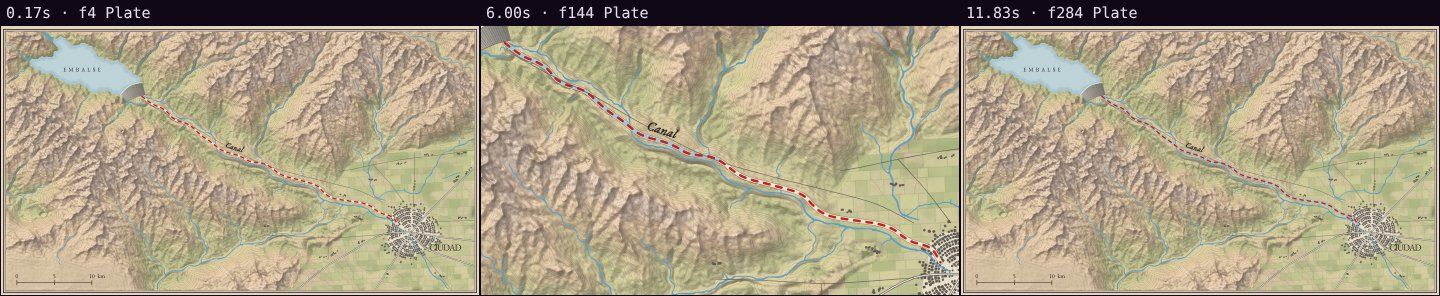
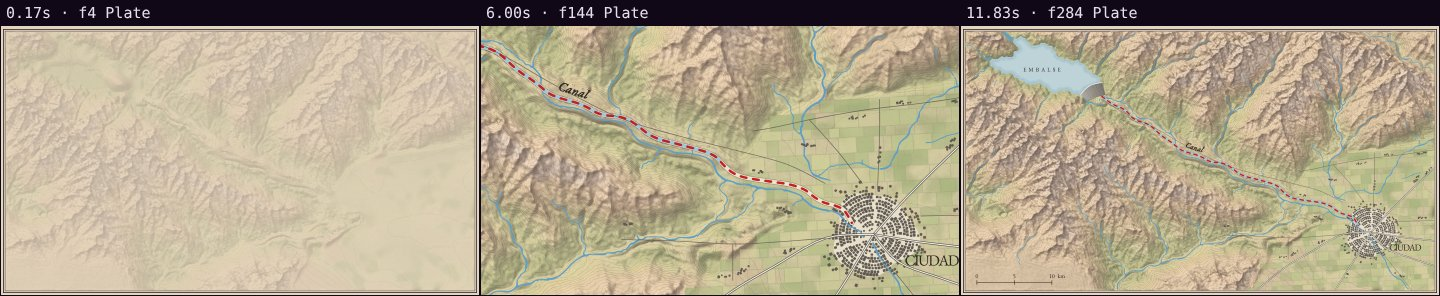
review(atlas-test): round 3 · the plate shows from its first frame
review.mjs flagged the first two frames as flat (only paper: the relief started invisible).
The relief now starts at 35 % and comes up out of the paper from there. review.mjs: no
warnings; the only still stretch is the ending.

Claude-Session: https://claude.ai/code/session_01UB8EocV1wtEFA53C7KnbT7

diff --git a/sandbox/2026-11-17-atlas-test/scene.js b/sandbox/2026-11-17-atlas-test/scene.js
@@ -24,7 +24,7 @@ Motion.scene({
         const { R, vec, hAt, canal } = env.state;
         // 0–1.5 s the plate is printed: the relief comes up out of the paper, then its ink, then
         // its lettering; 1.5–2 s it holds as the reference drew it (the detail gate's instant)
-        const relief = Ease.inOut(Ease.seg(t, 0.0, 0.9)), ink = Ease.inOut(Ease.seg(t, 0.5, 1.2)), letters = Ease.inOut(Ease.seg(t, 1.0, 1.5));
+        const relief = 0.35 + 0.65 * Ease.inOut(Ease.seg(t, 0.0, 0.9)), ink = Ease.inOut(Ease.seg(t, 0.5, 1.2)), letters = Ease.inOut(Ease.seg(t, 1.0, 1.5));
         // the water's front: leaves the dam at 3.0 s, reaches the town at 8.2 s
         const u = Ease.inOut(Ease.seg(t, 3.0, 8.2));
         const front = Atlas.along(canal, u).at, dam = canal[0];

diff --git a/sandbox/2026-11-17-atlas-test/review/auto.md b/sandbox/2026-11-17-atlas-test/review/auto.md
@@ -11,17 +11,15 @@
 Energy per second (how much the image changes):
 
 ```
-  ▇▄██▇▄ ▅▇▃
+▃ █▅██▇▇▆▇▁ 
 0    5    10   
 ```
 
-Still stretches of 1 s or more (intended? a visual pause that looks like a glitch is a bug): 0.00 s–2.00 s, 7.50 s–9.33 s.
+Still stretches of 1 s or more (intended? a visual pause that looks like a glitch is a bug): 10.17 s–11.83 s.
 
 ## Speed
 
-Painting: 495 ms/frame cold, 518 ms warm → full render ≈ 149 s at this size.
-
-> Slow: cache static elements with `Motion.sprite` and lower the texture density.
+Painting: 335 ms/frame cold, 279 ms warm → full render ≈ 80 s at this size.
 
 ## Contact sheet
 
